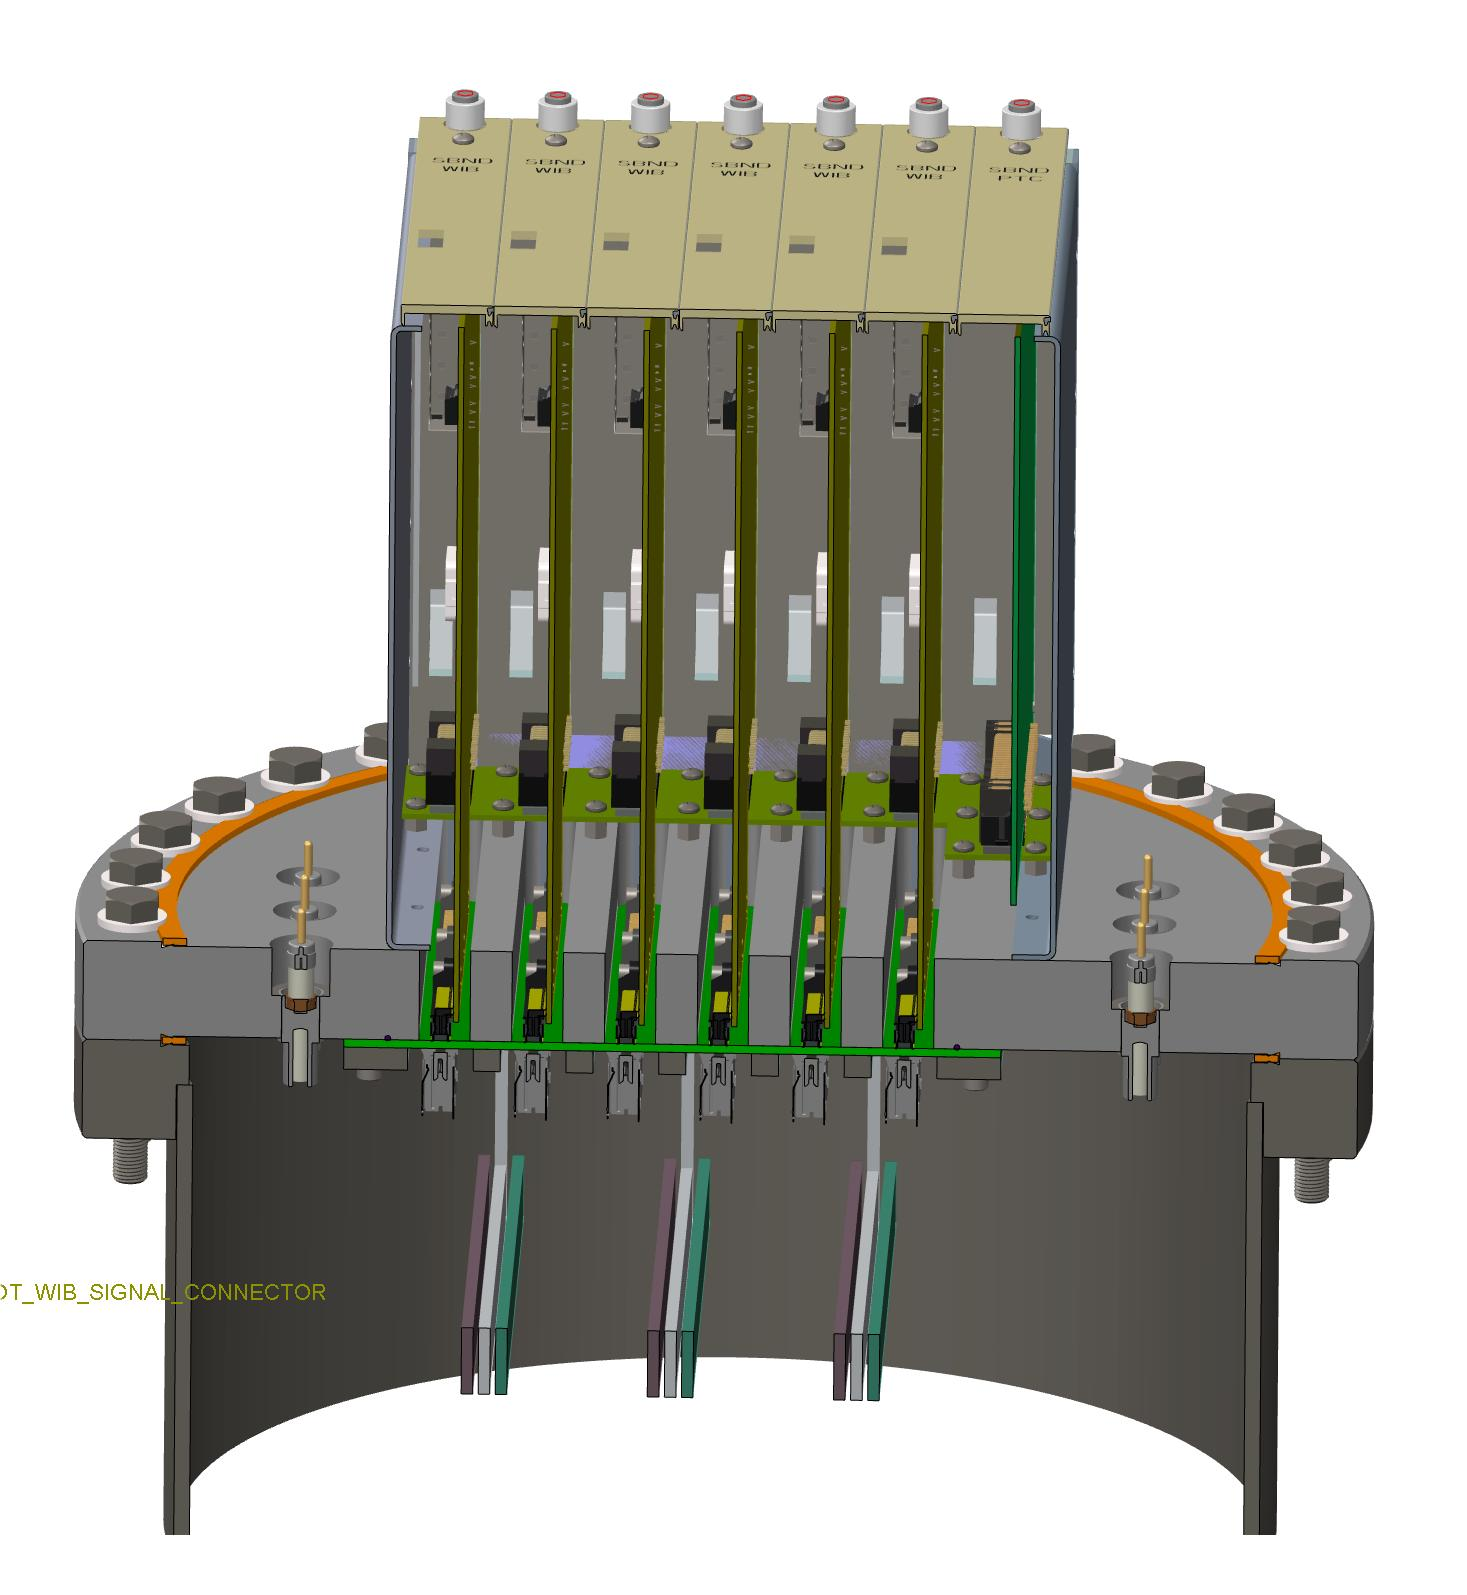
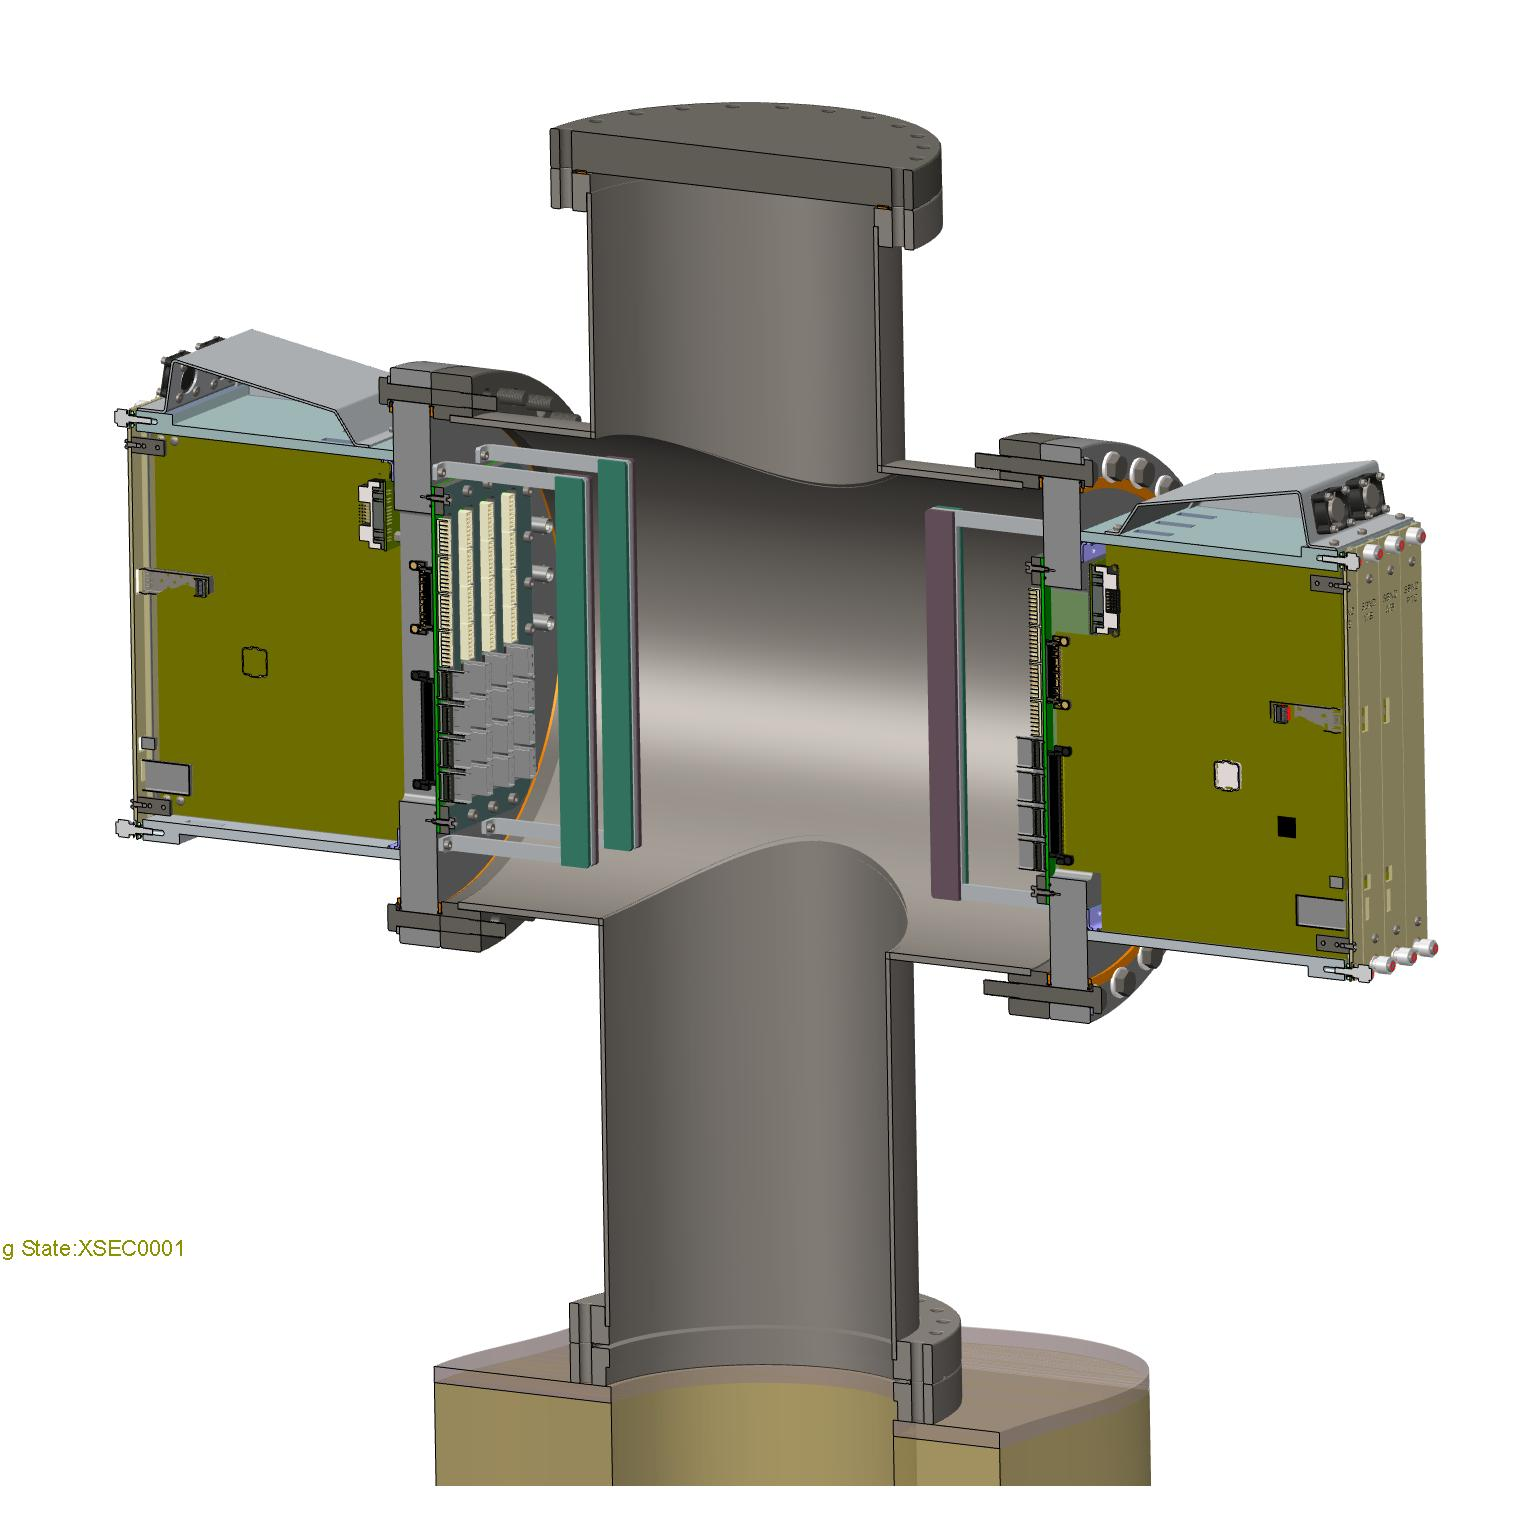
Now showing the protoDUNE FT and a thin section on the WIB

diff --git a/det-comp/tpc-fe-elec-and-daq.tex b/det-comp/tpc-fe-elec-and-daq.tex
@@ -440,7 +440,7 @@ Optical fiber will be employed externally to the cryostat, under DAQ scope.
 The design for the signal feedthroughs is complete except for some small adjustments,
 which are expected to be complete by June 2016.
 We have been working in tandem with the SBND group because of our very similar feedthrough needs.
-Some views from the current design of a signal feedthrough is shown in Figure~\ref{fig:tpcce_signal_FT}.
+Some views from the current design of a signal feedthrough is shown in Fig.~\ref{fig:tpcce_signal_FT}.
 Based on a standard 14-in conflat flange,
 each of these feedthroughs would serve the bias/power/digital IO needs of two APAs.  
 
@@ -454,10 +454,9 @@ these cables will be strain-relieved on the mounting rails above the APAs.
 % Two APAs will be cabled to one feedthrough in ``chimneys'' in the roof of the cryostat that
 % contain the support rods for the TPC planes.
 
-\begin{cdrfigure}[Conceptual design of signal/power feedthrough]{tpcce_signal_FT}{The signal/power feedthrough
-\fixme{This is actually the SBND feedthrough, very similar to ours, but we should update this when available.}}
-\includegraphics[width=3in]{tpcce_signal_FT_1.jpg}
-\includegraphics[width=3in]{tpcce_signal_FT_2.jpg}
+\begin{cdrfigure}[Conceptual design of signal/power feedthrough]{tpcce_signal_FT}{The signal/power feedthrough}
+\includegraphics[width=2.75in]{tpcce_signal_FT_1.jpg}
+\includegraphics[width=4in]{tpcce_signal_FT_2.jpg}
 \end{cdrfigure}
 
 For the protoDUNE detector APA there will be 20 electronics boards.
@@ -514,6 +513,19 @@ the DC bias voltage as well as the signals.
 It will be important that all cables and connectors be somewhat rugged,
 locking and able to withstand a minimum of several tens of mating cycles.
 This is in addition to concerns about material compatibility and the fact they must work in the cryogenic environment.
+
+%
+%%%%%%%%%%%%%%%%
+\subsubsection{Warm Interface Board}
+\label{subsubsec:ce_feedthrough_wib}
+\fixme{This section needs more meat, and some fact-checking (i.e., two FEMBs per WIB?).}
+The warm interface boards (WIB) reside on the warm side of the feedthroughs.
+Each WIB connects to two FEMBs, and acts as a flexible, optical interface to DAQ.
+While the FPGA on the FEMB in the cold would in principle be able to provide any required flexibility,
+all flexibility is lost once the FPGA is replaced with the COLDATA chip,
+which represents a hard compilation in permanent silicon of a particular instance of FPGA code.
+The right panel of Fig. \ref{tpcce_signal_FT} shows the WIBs installed on a feedthrough.
+The WIB is nearly identical to that for SBND; we are therefore working in tandem with SBND on this.
 
 %
 %%%%%%%%%%%%%%%%
